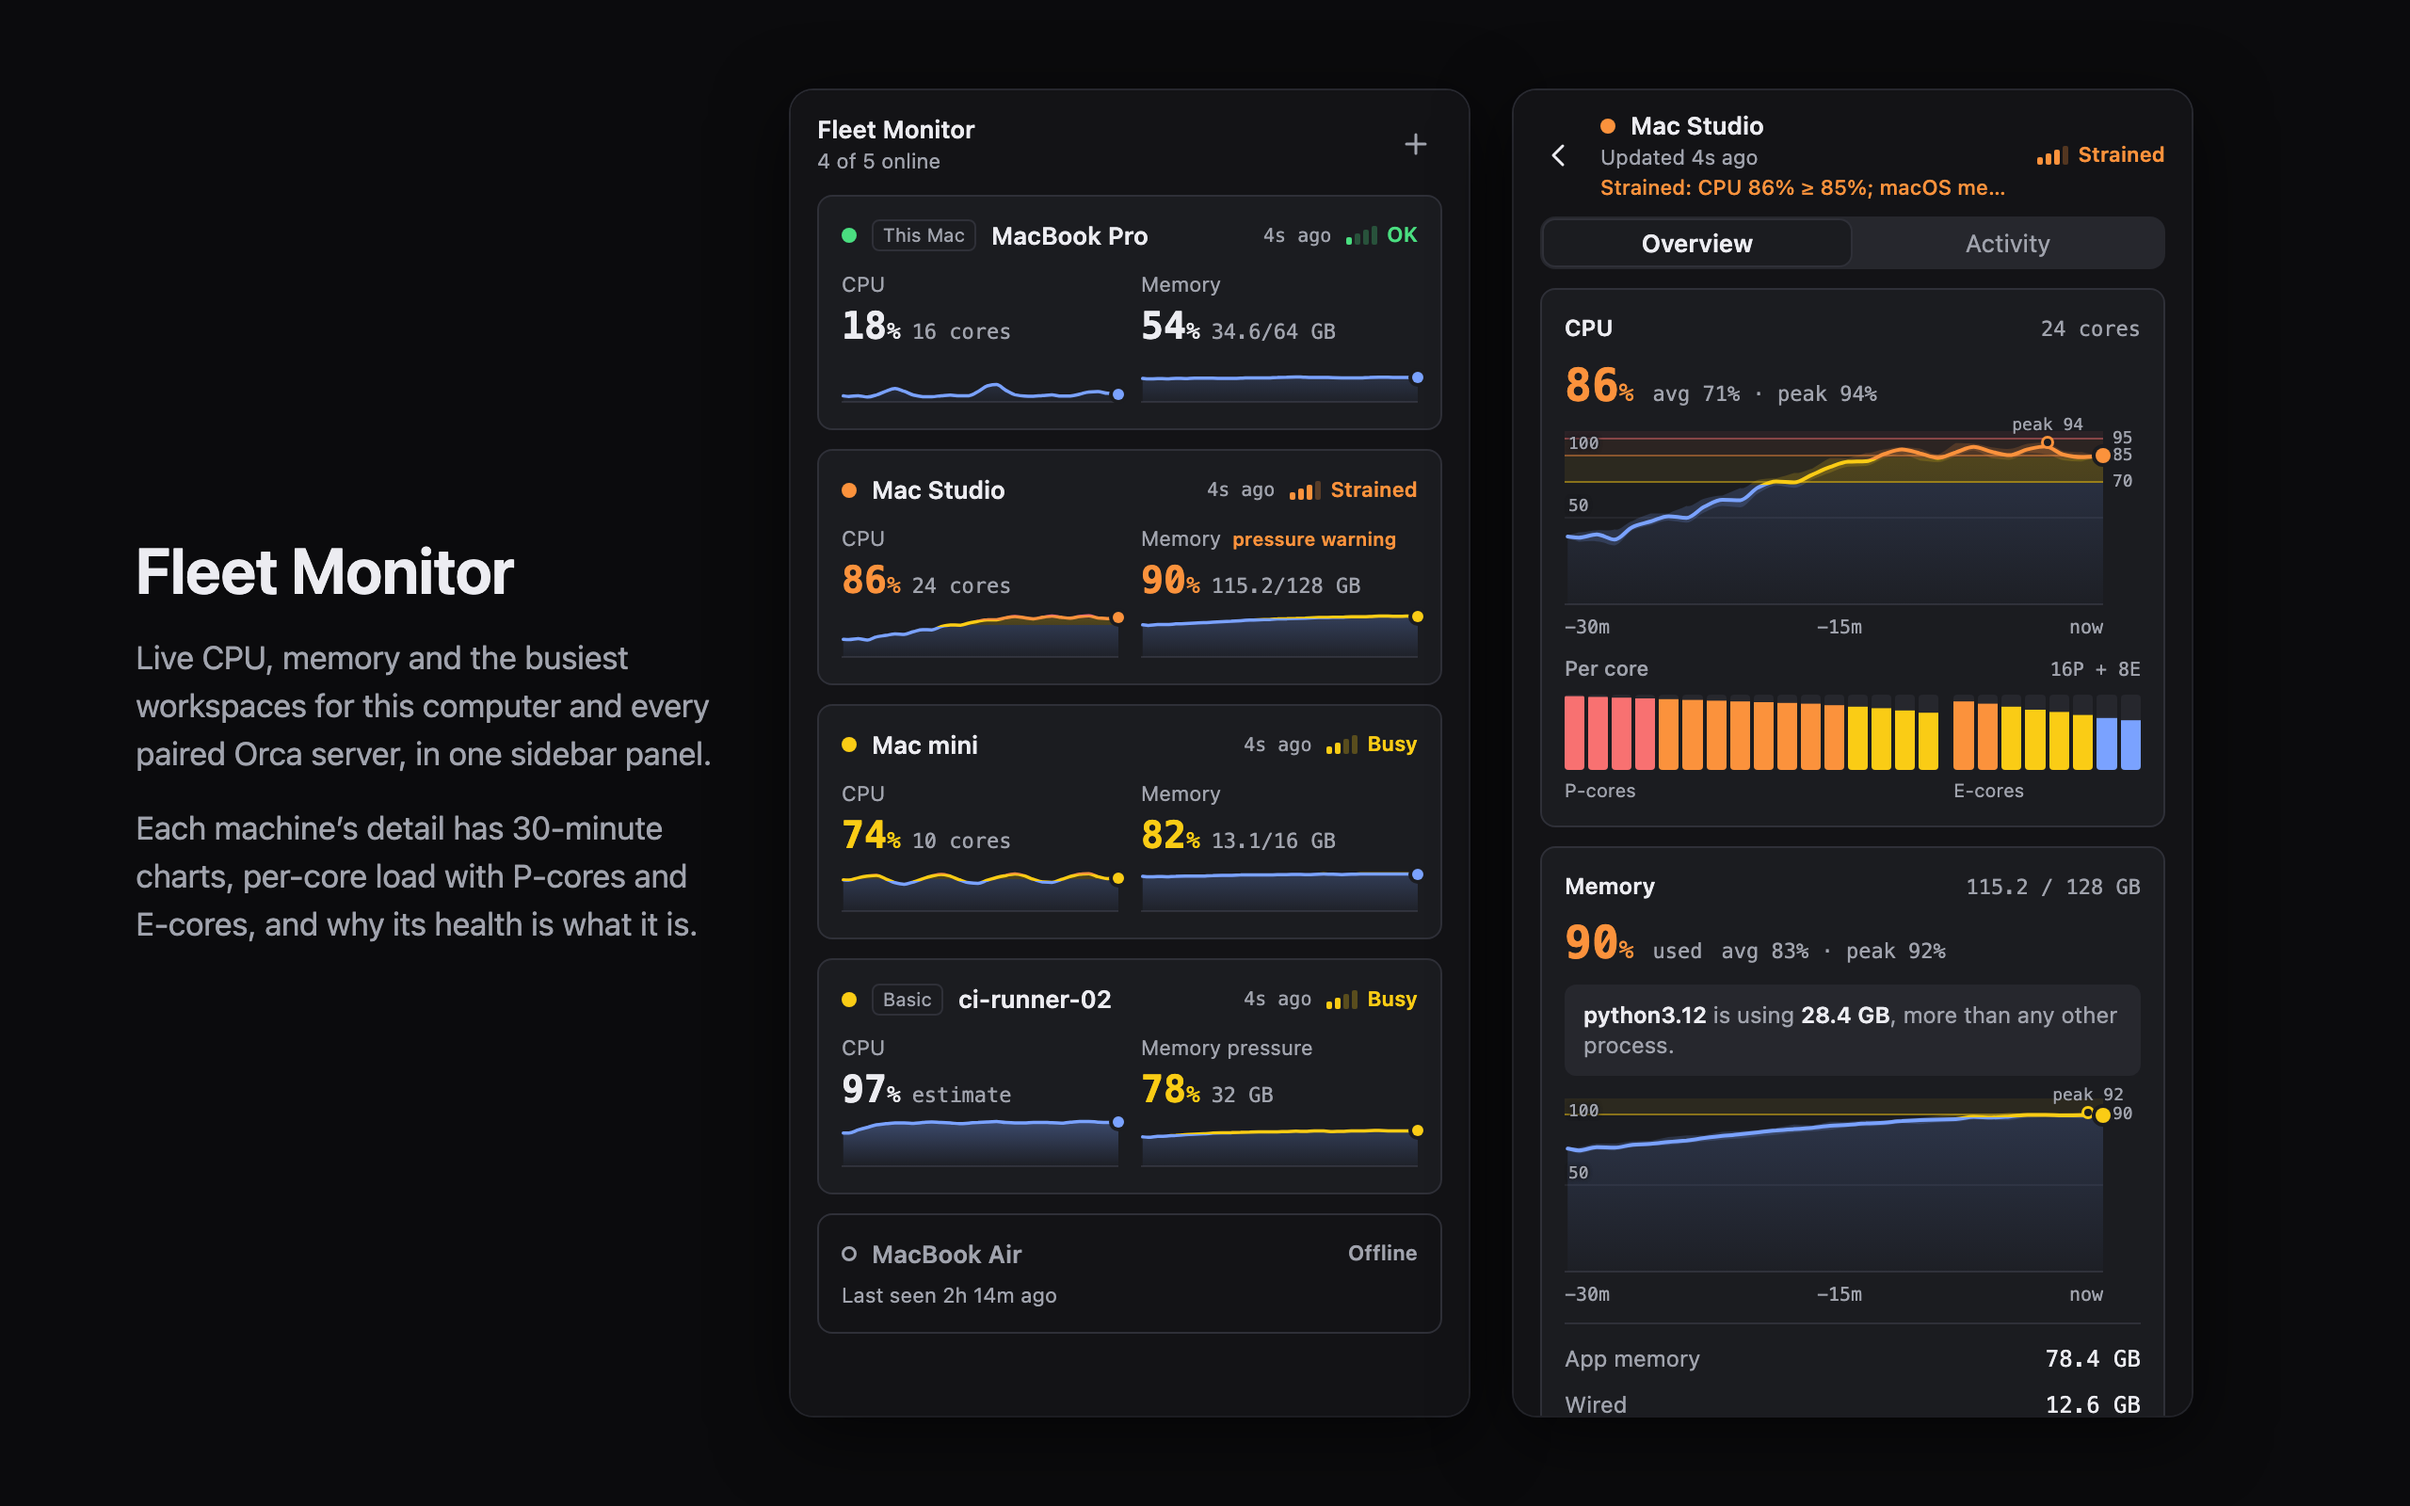
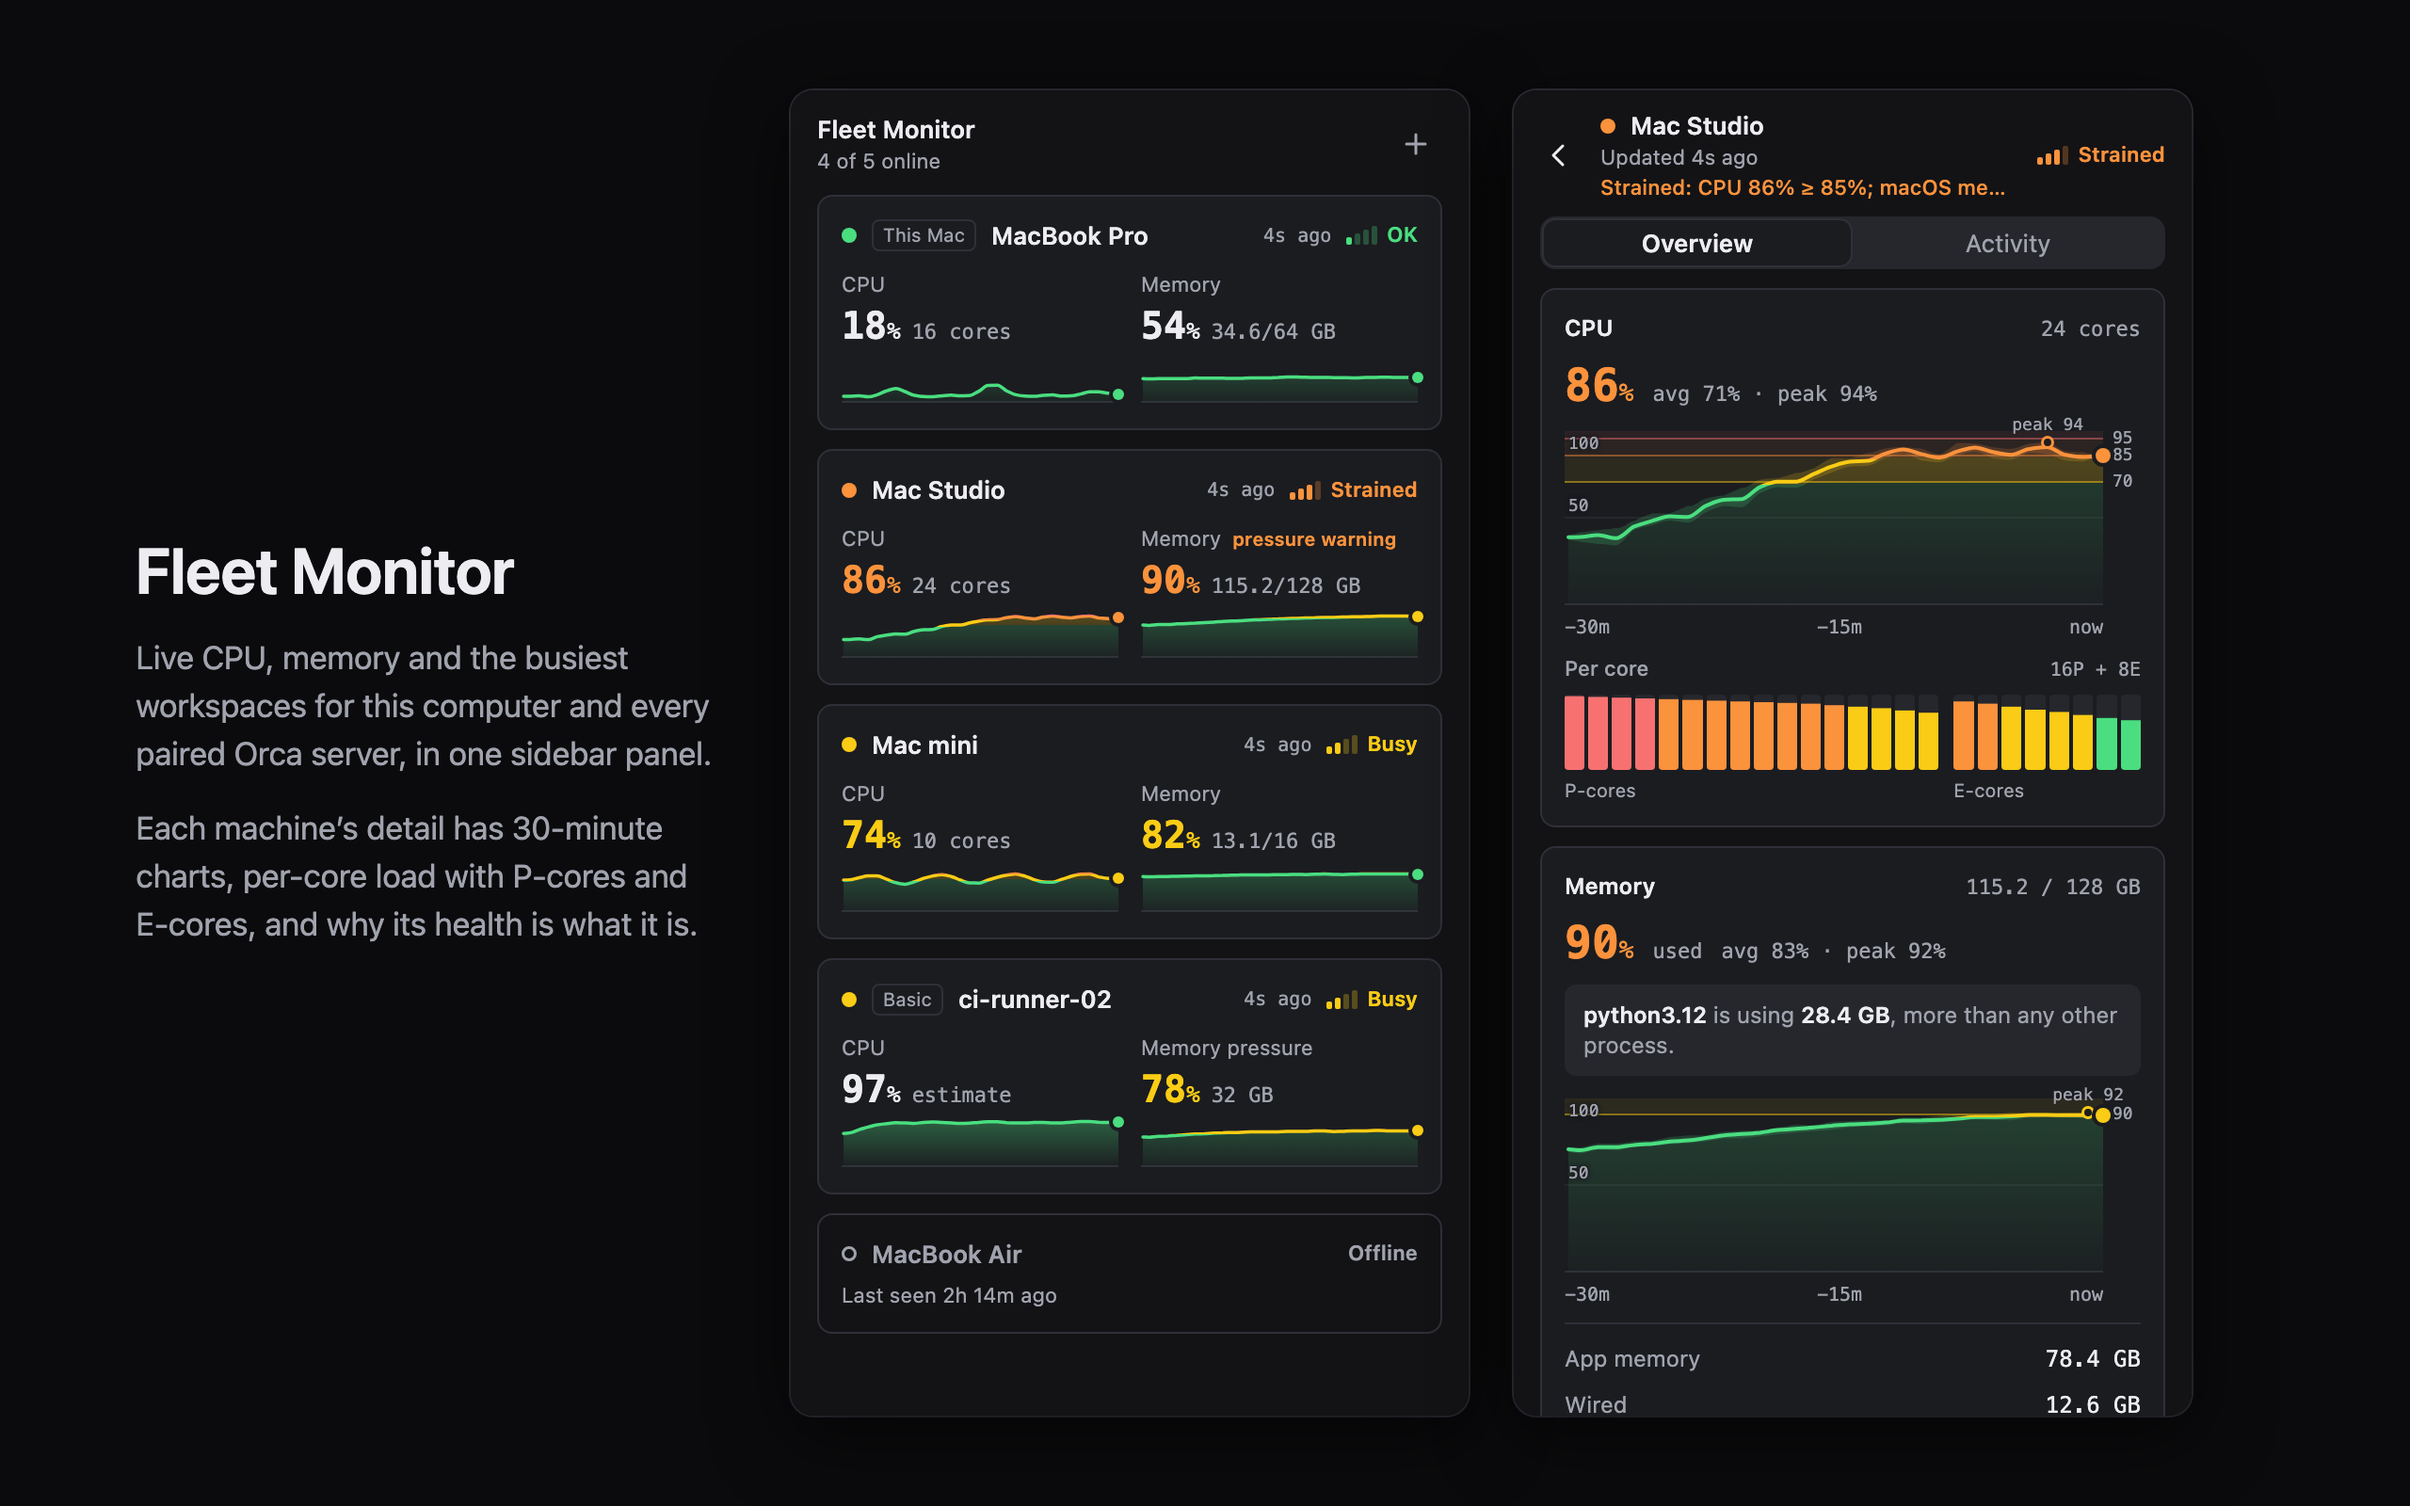
OK readings are green
A reading at an OK level (chart lines and fills, the newest dot, per-core
bars and meters) is drawn in the OK health colour, the green of an OK
machine's dot, instead of a blue of its own: --fm-data is var(--fm-health-ok),
so it follows the stronger set too. README, changelog and every image updated.

diff --git a/panel/style.css b/panel/style.css
@@ -4,9 +4,10 @@
  * :root, ahead of this file) and puts a `light` or `dark` class on <html>. This file never sets an
  * --orca-* variable, so the host's values always win; it reads them into --fm-* tokens with the
  * design's colours only as fallbacks, for a frame that has no host (the preview). The four health
- * colours are Fleet Monitor's own, with a light and a dark variant chosen by Orca's class, and so
- * is --fm-data, the colour of a reading at an OK level (lines, fills, bars, dots): Orca sets its
- * primary to the theme's text colour, so drawn in it, a healthy machine was plain white (or black). */
+ * colours are Fleet Monitor's own, with a light and a dark variant chosen by Orca's class. --fm-data,
+ * the colour of a reading at an OK level (lines, fills, bars, dots), is the OK health colour in force
+ * (the stronger one too): Orca sets its primary to the theme's text colour, so drawn in it, a healthy
+ * machine was plain white (or black). */
 
 :root {
   color-scheme: light;
@@ -26,7 +27,7 @@
   --fm-health-busy: #a16207;
   --fm-health-strained: #c2410c;
   --fm-health-critical: #b91c1c;
-  --fm-data: #2a62e0;
+  --fm-data: var(--fm-health-ok);
   --fm-mono: ui-monospace, 'SF Mono', SFMono-Regular, Menlo, Consolas, monospace;
 }
 
@@ -47,7 +48,6 @@ html.dark {
   --fm-health-busy: #facc15;
   --fm-health-strained: #fb923c;
   --fm-health-critical: #f87171;
-  --fm-data: #7aa2ff;
 }
 @media (prefers-color-scheme: dark) {
   html:not(.light):not(.dark) {
@@ -66,7 +66,6 @@ html.dark {
     --fm-health-busy: #facc15;
     --fm-health-strained: #fb923c;
     --fm-health-critical: #f87171;
-    --fm-data: #7aa2ff;
   }
 }
 
@@ -78,14 +77,12 @@ html[data-fm-contrast='more'] {
   --fm-health-busy: #854d0e;
   --fm-health-strained: #9a3412;
   --fm-health-critical: #991b1b;
-  --fm-data: #1d4ed8;
 }
 html.dark[data-fm-contrast='more'] {
   --fm-health-ok: #86efac;
   --fm-health-busy: #fde047;
   --fm-health-strained: #fdba74;
   --fm-health-critical: #fca5a5;
-  --fm-data: #a5c0ff;
 }
 @media (prefers-color-scheme: dark) {
   html:not(.light):not(.dark)[data-fm-contrast='more'] {
@@ -93,10 +90,9 @@ html.dark[data-fm-contrast='more'] {
     --fm-health-busy: #fde047;
     --fm-health-strained: #fdba74;
     --fm-health-critical: #fca5a5;
-    --fm-data: #a5c0ff;
   }
 }
-/* Where even the stronger blue cannot be told from a surface it is drawn on, contrast.mjs sets
+/* Where even the stronger green cannot be told from a surface it is drawn on, contrast.mjs sets
  * --fm-data inline (html[data-fm-data='theme']) to whichever colour stands out best on them all. */
 
 html,
@@ -155,8 +151,8 @@ body {
   border: 0;
 }
 
-/* Health of a machine sets --fm-level; the level of one metric sets --fm-tone. Charts stay in the
- * primary colour until the metric is elevated. */
+/* Health of a machine sets --fm-level; the level of one metric sets --fm-tone. Charts are in the
+ * data colour (the OK green) until the metric is elevated. */
 [data-health='ok'] {
   --fm-level: var(--fm-health-ok);
 }

diff --git a/test/fleet-model.test.ts b/test/fleet-model.test.ts
@@ -718,12 +718,12 @@ describe('health colour contrast', () => {
     assert.equal(needsStrongerHealth([null, ...design], [null]), false, 'unknown colours are not guessed')
   })
 
-  test('the data blue is measured at 3:1, on the muted tracks too', async () => {
+  test('the data colour (the OK green) is measured at 3:1, on the muted tracks too', async () => {
     const { MIN_GRAPHIC_CONTRAST, needsStrongerHealth } = await import('../panel/contrast.mjs')
     const hex = (h: string) => [1, 3, 5].map((i) => parseInt(h.slice(i, i + 2), 16))
-    assert.equal(needsStrongerHealth([hex('#2a62e0')], [hex('#ffffff'), hex('#fafafa')], MIN_GRAPHIC_CONTRAST), false)
-    assert.equal(needsStrongerHealth([hex('#2a62e0')], [hex('#ffffff'), hex('#b0b0b0')], MIN_GRAPHIC_CONTRAST), true, 'a dark grey track')
-    assert.equal(needsStrongerHealth([hex('#1d4ed8')], [hex('#ffffff'), hex('#b0b0b0')], MIN_GRAPHIC_CONTRAST), false, 'the stronger blue there')
+    assert.equal(needsStrongerHealth([hex('#15803d')], [hex('#ffffff'), hex('#fafafa'), hex('#eeeef1')], MIN_GRAPHIC_CONTRAST), false)
+    assert.equal(needsStrongerHealth([hex('#15803d')], [hex('#ffffff'), hex('#b0b0b0')], MIN_GRAPHIC_CONTRAST), true, 'a dark grey track')
+    assert.equal(needsStrongerHealth([hex('#166534')], [hex('#ffffff'), hex('#b0b0b0')], MIN_GRAPHIC_CONTRAST), false, 'the stronger green there')
   })
 
   test('where no theme colour stands out on a light card and a dark track, a grey between them does', async () => {
@@ -734,7 +734,7 @@ describe('health colour contrast', () => {
       // Only #8a8a8a to #8d8d8d clear 3:1 on all three.
       [hex('#ffffff'), hex('#f3f3f3'), hex('#414141')]
     ]) {
-      const best = bestOn([hex('#1d4ed8'), hex('#0a0a0a'), hex('#737373'), ...GREYS], surfaces)!
+      const best = bestOn([hex('#166534'), hex('#0a0a0a'), hex('#737373'), ...GREYS], surfaces)!
       assert.ok(worstContrast(best, surfaces) >= MIN_GRAPHIC_CONTRAST, `best ${best} at ${worstContrast(best, surfaces).toFixed(2)}`)
     }
   })

diff --git a/README.md b/README.md
@@ -77,7 +77,7 @@ The panel opens on an overview with one card per machine. Click a card for that 
 - Charts glide to each new reading, and figures count up or down to their new values. With your system's reduce motion setting on, everything changes at once.
 - The foot of the overview shows which version of Fleet Monitor this computer runs. A machine's detail lists the version it runs. When one machine runs an older version than another, its card has a red **Outdated Version** tag, and its detail says which version is newer and gives the command that updates it.
 - A status bar item names the machine that most needs attention, such as `Mac Studio strained · 1 offline`, and lists every machine in its tooltip. Clicking it opens the panel.
-- Colours follow your Orca theme, light or dark. A reading at an OK level is drawn in Fleet Monitor's own blue, because Orca's theme accent is its text colour.
+- Colours follow your Orca theme, light or dark. A reading at an OK level is drawn in the same green as an OK machine's dot, because Orca's theme accent is its text colour.
 
 To add a machine, pair it in Orca under **Settings → Remote Orca servers → Add server**. The panel's **+** button shows the same hint.
 
@@ -394,7 +394,7 @@ node tools/preview/shoot-capture.mjs --file .orca/captures/here.json --out /tmp/
 
 Node does not say which `os.cpus()` entry is which kind of core. On an Apple M2 Max (8 performance, 4 efficiency) under macOS 26, background-priority busy loops, which macOS keeps on efficiency cores, drove entries 0 to 3 to 100%, and eight normal-priority loops drove entries 4 to 11. So the efficiency cores come first.
 
-Orca hands panel frames the user's theme as `--orca-*` variables and a `light` or `dark` class. The panel never sets those variables, so the theme always wins, and the design's colours are only fallbacks. The four health colours and the blue of an OK reading are the plugin's own, with light and dark variants: Orca sets `--orca-primary` to the theme's text colour, so a chart drawn in it would be plain white in a dark theme. The panel measures its colours against the theme's card and background, and the blue against the tracks that bars fill too. It switches to a stronger set when a tinted theme would leave the health colours below 4.5:1 or the blue below 3:1, and where even that fails, draws readings in whichever colour stands out best.
+Orca hands panel frames the user's theme as `--orca-*` variables and a `light` or `dark` class. The panel never sets those variables, so the theme always wins, and the design's colours are only fallbacks. The four health colours are the plugin's own, with light and dark variants, and an OK reading is drawn in the OK green: Orca sets `--orca-primary` to the theme's text colour, so a chart drawn in it would be plain white in a dark theme. The panel measures its colours against the theme's card and background, and the green of readings against the tracks that bars fill too. It switches to a stronger set when a tinted theme would leave the health colours below 4.5:1 or readings below 3:1, and where even that fails, draws readings in whichever colour stands out best.
 
 </details>
 

diff --git a/CHANGELOG.md b/CHANGELOG.md
@@ -13,7 +13,7 @@ Charts that show what health was doing, a panel that moves smoothly, every disk 
 - A soft band behind the line shows each minute's lowest and highest reading, and the window's peak is marked where it happened.
 - Point at a chart, or tab to it and use the arrow keys, to read any minute: how long ago, its average, its level and its range. Screen readers hear the same.
 - Lines are smoothed without ever rising above a reading, a dot marks the newest reading, and detail charts are taller.
-- A reading at an OK level is drawn in Fleet Monitor's own blue. Orca's theme accent is its text colour, so before this a healthy machine's charts, bars and dots were plain white in a dark theme and black in a light one. On a tinted theme where the blue would be hard to see, the panel picks a colour that stands out.
+- A reading at an OK level is drawn in the same green as an OK machine's dot. Orca's theme accent is its text colour, so before this a healthy machine's charts, bars and dots were plain white in a dark theme and black in a light one. On a tinted theme where the green would be hard to see, the panel picks a colour that stands out.
 
 ### Motion
 
